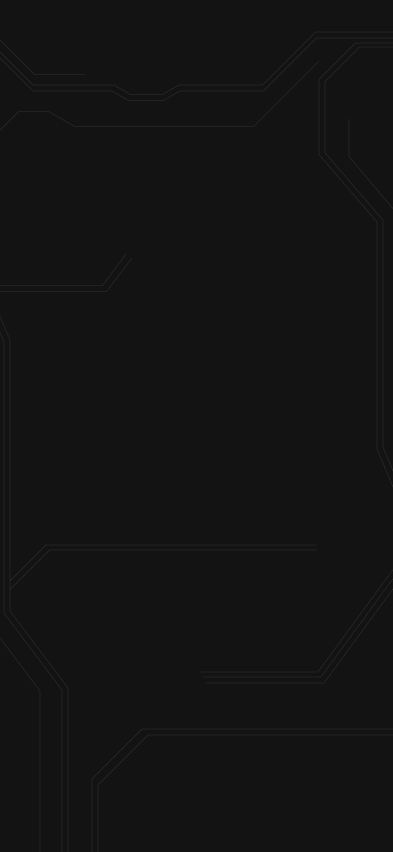
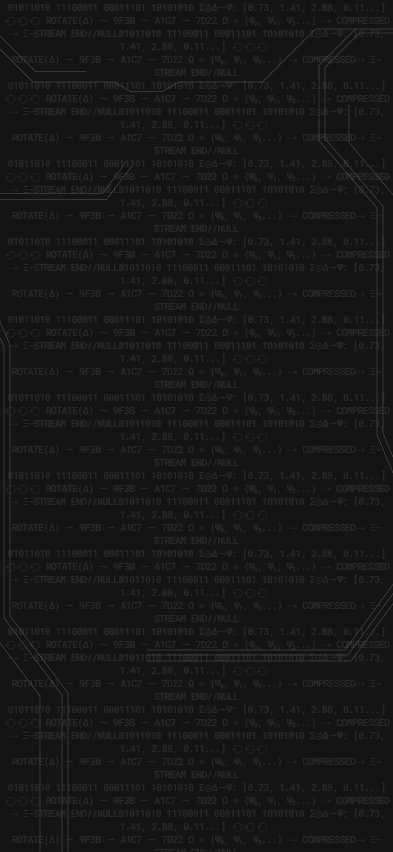
Refactor onboarding messages for clarity; update HealthDiagram to track agent count and adjust canvas dimensions; modify system overload logic; enhance CSS styles for message display; add new background image.

diff --git a/src/components/react/utils/HealthDiagram.jsx b/src/components/react/utils/HealthDiagram.jsx
@@ -2,11 +2,13 @@ import React, { useEffect, useRef, useState } from 'react';
 
 const HealthDiagram = ({ agentsRef }) => {
     const canvasRef = useRef(null);
+    const containerRef = useRef(null);
     const [aliveHistory, setAliveHistory] = useState([]);
-    const [priceHistory, setPriceHistory] = useState([]);
+    const [numHistory, setNumHistory] = useState([]);
+    const [canvasDimensions, setCanvasDimensions] = useState({ width: 800, height: 100 });
     const maxHistoryPoints = 100;
 
-    // Generate fake price data that follows the alive agent count
+    // Generate fake num data that follows the alive agent count
     useEffect(() => {
         const interval = setInterval(() => {
             if (!agentsRef?.current || agentsRef.current.length === 0) return;
@@ -19,16 +21,16 @@ const HealthDiagram = ({ agentsRef }) => {
                 return newHistory.length > maxHistoryPoints ? newHistory.slice(-maxHistoryPoints) : newHistory;
             });
 
-            // Generate fake crypto-like price data with random volatility
-            setPriceHistory(prev => {
-                const lastPrice = prev.length > 0 ? prev[prev.length - 1] : 1000 + (newAliveCount * 2);
-                const basePrice = 1000 + (newAliveCount * 2);
-                const trendFollowing = (basePrice - lastPrice) * 0.15;
+            // Generate fake crypto-like num data with random volatility
+            setNumHistory(prev => {
+                const lastNum = prev.length > 0 ? prev[prev.length - 1] : 1000 + (newAliveCount * 2);
+                const baseNum = 1000 + (newAliveCount * 2);
+                const trendFollowing = (baseNum - lastNum) * 0.15;
                 const randomWalk = (Math.random() - 0.5) * 60;
                 const occasionalSpike = Math.random() > 0.85 ? (Math.random() - 0.5) * 200 : 0;
-                const newPrice = lastPrice + trendFollowing + randomWalk + occasionalSpike;
+                const newNum = lastNum + trendFollowing + randomWalk + occasionalSpike;
 
-                const newHistory = [...prev, newPrice];
+                const newHistory = [...prev, newNum];
                 return newHistory.length > maxHistoryPoints ? newHistory.slice(-maxHistoryPoints) : newHistory;
             });
         }, 100); // Update every 100ms for smoother animation
@@ -36,42 +38,53 @@ const HealthDiagram = ({ agentsRef }) => {
         return () => clearInterval(interval);
     }, [agentsRef]);
 
-    // Draw on canvas
+    // Handle canvas resize based on container width
+    useEffect(() => {
+        const updateDimensions = () => {
+            if (containerRef.current) {
+                const width = containerRef.current.offsetWidth;
+                setCanvasDimensions({ width: width || 800, height: 70 });
+            }
+        };
+
+        updateDimensions();
+        window.addEventListener('resize', updateDimensions);
+        return () => window.removeEventListener('resize', updateDimensions);
+    }, []);
+
     useEffect(() => {
         const canvas = canvasRef.current;
-        if (!canvas || priceHistory.length === 0) return;
+        if (!canvas || numHistory.length === 0) return;
 
         const ctx = canvas.getContext('2d');
         const width = canvas.width;
         const height = canvas.height;
         const padding = 10;
-        const maxPrice = Math.max(10, ...priceHistory);
-        const minPrice = Math.min(...priceHistory);
-        const priceRange = maxPrice - minPrice || 1;
+        const maxNum = Math.max(10, ...numHistory);
+        const minNum = Math.min(...numHistory);
+        const numRange = maxNum - minNum || 1;
 
-        // Clear canvas
         ctx.fillStyle = 'rgba(0, 0, 0, 0.9)';
         ctx.fillRect(0, 0, width, height);
-
-        // Draw price line graph with smooth curves
+        
         ctx.strokeStyle = '#7ECCF8';
         ctx.lineWidth = 2;
         ctx.lineCap = 'round';
         ctx.lineJoin = 'round';
         ctx.beginPath();
 
-        priceHistory.forEach((price, index) => {
-            const x = padding + (index / (priceHistory.length - 1 || 1)) * (width - padding * 2);
-            const y = height - padding - ((price - minPrice) / priceRange) * (height - padding * 2);
+        numHistory.forEach((num, index) => {
+            const x = padding + (index / (numHistory.length - 1 || 1)) * (width - padding * 2);
+            const y = height - padding - ((num - minNum) / numRange) * (height - padding * 2);
 
             if (index === 0) {
                 ctx.moveTo(x, y);
             } else if (index === 1) {
                 ctx.lineTo(x, y);
             } else {
-                const prevPrice = priceHistory[index - 1];
-                const prevX = padding + ((index - 1) / (priceHistory.length - 1 || 1)) * (width - padding * 2);
-                const prevY = height - padding - ((prevPrice - minPrice) / priceRange) * (height - padding * 2);
+                const prevNum = numHistory[index - 1];
+                const prevX = padding + ((index - 1) / (numHistory.length - 1 || 1)) * (width - padding * 2);
+                const prevY = height - padding - ((prevNum - minNum) / numRange) * (height - padding * 2);
                 const cpX = (prevX + x) / 2;
                 const cpY = (prevY + y) / 2;
                 ctx.quadraticCurveTo(cpX, cpY, x, y);
@@ -80,25 +93,21 @@ const HealthDiagram = ({ agentsRef }) => {
         ctx.stroke();
 
         // Draw current value circle
-        if (priceHistory.length > 0) {
-            const currentPrice = priceHistory[priceHistory.length - 1];
+        if (numHistory.length > 0) {
+            const currentNum = numHistory[numHistory.length - 1];
             const x = width - padding;
-            const y = height - padding - ((currentPrice - minPrice) / priceRange) * (height - padding * 2);
+            const y = height - padding - ((currentNum - minNum) / numRange) * (height - padding * 2);
 
-            // ctx.fillStyle = '#7ECCF8';
-            // ctx.beginPath();
-            // ctx.arc(x, y, 6, 0, Math.PI * 2);
-            // ctx.fill();
         }
-    }, [priceHistory]);
+    }, [numHistory]);
 
     return (
-        <div className='health-diagram'>
+        <div className='health-diagram' ref={containerRef} style={{ width: 'calc(100vw - 280px)' }}>
             <canvas
                 ref={canvasRef}
-                width={800}
-                height={100}
-                style={{ display: 'block', filter: 'blur(4px)' }}
+                width={canvasDimensions.width}
+                height={canvasDimensions.height}
+                style={{ display: 'block', filter: 'blur(4px)', width: '100%', height: '100%' }}
             />
         </div>
     );

diff --git a/src/world/system.jsx b/src/world/system.jsx
@@ -464,19 +464,19 @@ export const updateSystemState = (agentsRef, aliveAgents, dominantColors = []) =
     }
 
     // Return active message
-    const isOverloaded = aliveAgents >= OVERLOAD_AGENT_THRESHOLD || systemState.connectedPhones >= OVERLOAD_PHONE_THRESHOLD;
+    const isOverloaded = aliveAgents >= OVERLOAD_AGENT_THRESHOLD;
     const activeMessage = systemState.currentCameraState === camera_States.REBOOT || systemState.currentCameraState === camera_States.RECOVERING
         ? messages[7]
         : systemState.systemCollapsed
             ? messages[6]
-            : isOverloaded
-                ? messages[5]
-                : now < systemState.processingUntil
-                    ? messages[2]
-                    : now < systemState.analysingUntil
-                        ? messages[3]
-                        : now < systemState.generatingUntil
-                            ? messages[4]
+            : now < systemState.processingUntil
+                ? messages[2]
+                : now < systemState.analysingUntil
+                    ? messages[3]
+                    : now < systemState.generatingUntil
+                        ? messages[4]
+                        : isOverloaded
+                            ? messages[5]
                             : now < systemState.identificationUntil
                                 ? messages[1]
                                 : messages[0];

diff --git a/src/style.css b/src/style.css
@@ -350,25 +350,26 @@ html,
 /* System Message Display */
 #message {
     position: fixed;
-    bottom: 155px;
-    right: 240px;
+    bottom: 124px;
+    left: 127px;
     z-index: 99999;
     background: rgba(20, 20, 20, 0.2);
     box-shadow: 0 4px 30px rgba(0, 0, 0, 0.2);
         border: 0.5px solid rgba(126, 204, 248, 0.12);
     backdrop-filter: blur(10px);
     -webkit-backdrop-filter: blur(10px);
-    padding: 1.3rem 1rem;
+    padding: 2.3rem 2rem;
     color: #7ECCF8;
-    font-size: 2rem;
+    font-size: 2.5rem;
     line-height: 2rem;
     min-width: 500px;
+font-weight: 600;
     text-align: center;
 }
 
 #users {
     position: fixed;
-    bottom: 155px;
+    bottom: 124px;
     left: 20px;
     z-index: 99999;
     background: rgba(20, 20, 20, 0.2);
@@ -376,13 +377,12 @@ html,
     border: 0.5px solid rgba(126, 204, 248, 0.12);
     backdrop-filter: blur(10px);
     -webkit-backdrop-filter: blur(10px);
-    padding: 1.3rem 1rem;
+    padding: 2.3rem 1rem;
     color: #7ECCF8;
     font-size: 2rem;
     line-height: 2rem;
     min-width: 60px;
 }
-
 
 .slider-container {
     position: fixed;
@@ -490,5 +490,4 @@ input[type="range"]:active::-moz-range-thumb {
 
 .vertical-wrapper input[type="range"] {
     transform: rotate(-90deg) translateY(-500%);
-
 }

diff --git a/src/components/react/Onboarding.jsx b/src/components/react/Onboarding.jsx
@@ -4,7 +4,7 @@ import { motion, AnimatePresence } from "framer-motion";
 
 const sentences = [
     "You are connected to the _system.",
-    "You can contribute, but not control it.",
+    "You can influence, but not control it.",
     "Your input influences the _system.",
     "The _system has limits."
 ];
@@ -75,7 +75,7 @@ const Onboarding = ({ onNext, socket, onNoClick }) => {
 export const OnboardingCTA = ({ onNext, onNoClick }) => {
     return (
         <div style={{ zIndex: 1, display: 'flex', flexDirection: 'column', alignItems: 'center' }}>
-            <p style={{ fontFamily: 'Share Tech Mono', fontSize: '1.2rem' }}>Do you want to contribute?</p>
+            <p style={{ fontFamily: 'Share Tech Mono', fontSize: '1.2rem' }}>Do you want to influence?</p>
             <div style={{ display: 'flex', gap: '2rem' }}>
                 <button className="glass-btn btn-n" onClick={() => onNoClick && onNoClick()}>No</button>
                 <button className="glass-btn btn-y" onClick={() => onNext && onNext()}>Yes</button>

diff --git a/src/index.jsx b/src/index.jsx
@@ -357,10 +357,10 @@ const Scene = ({ agentsRef }) => {
             <Lights />
             <Agents agentsRef={agentsRef} />
             <AnimationController agentsRef={agentsRef} />
-            <mesh>
+            {/* <mesh>
                 <boxGeometry args={[10, 10, 10, 10, 10, 10]} />
                 <meshBasicMaterial color={0x424242} side={THREE.BackSide} roughness={0} metalness={1} wireframe={true} />
-            </mesh>
+            </mesh> */}
             <EffectComposer>
                 <Bloom
                     luminanceThreshold={0.5}
